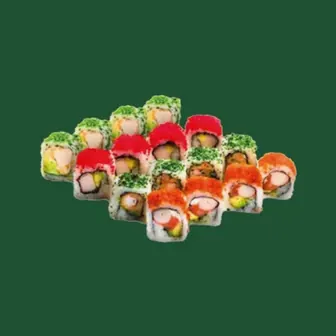
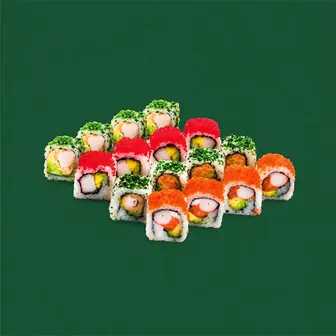
Update photo — California Box 16 pcs

Changed region(s): [[0.119, 0.2679, 0.8929, 0.744]]

diff --git a/src/data/dishImages.ts b/src/data/dishImages.ts
@@ -229,7 +229,7 @@ export const CLIENT_DISH_IMAGES: Record<string, string> = {
   "f7e59011ae": "/menu-hd-onglet27/assort16-funny.png",
   "794bc29deb": "/menu-hd-onglet27/assort16-eby-lovers.png",
   "5e0ccaac41": "/menu-hd-onglet27/assort16-crunchy-box.png",
-  "6515d6b542": "/menu-hd-onglet27/assort16-california-box.png",
+  "6515d6b542": "/menu-hd-onglet27/assort16-california-box.jpg",
 
   // Assortiments 24 pcs — captures Yumlo 16-05 (miniatures)
   "8827d5820f": "/menu-hd-onglet28/assort24-aromaki-lovers.png",
@@ -306,7 +306,7 @@ export const CUSTOM_DISH_IMAGES: Record<string, string> = {
   "f7e59011ae": "/menu-hd-onglet27/assort16-funny.png",
   "794bc29deb": "/menu-hd-onglet27/assort16-eby-lovers.png",
   "5e0ccaac41": "/menu-hd-onglet27/assort16-crunchy-box.png",
-  "6515d6b542": "/menu-hd-onglet27/assort16-california-box.png",
+  "6515d6b542": "/menu-hd-onglet27/assort16-california-box.jpg",
 
   // Assortiments 24 pcs (alignés sur CLIENT_DISH_IMAGES — miniatures Yumlo)
   "8827d5820f": "/menu-hd-onglet28/assort24-aromaki-lovers.png",

diff --git a/src/data/yumloMenu.ts b/src/data/yumloMenu.ts
@@ -1802,7 +1802,7 @@ export const YUMLO_MENU = [
     "description": "4 classic, 4 chicken crispy, 4 ebi fry, 4 cream cheese.",
     "priceMAD": "119.00",
     "currency": "MAD",
-    "image": "/menu-hd-onglet27/assort16-california-box.png"
+    "image": "/menu-hd-onglet27/assort16-california-box.jpg"
   },
   {
     "id": "8827d5820f",
